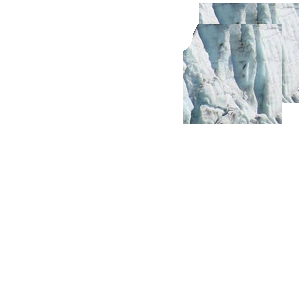
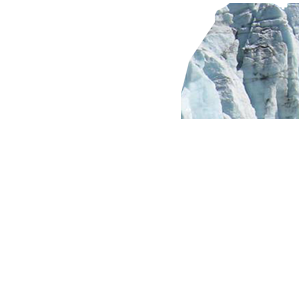
glacier calving animation is on the right track.

Changed region(s): [[0.6, 0.0, 1.0, 0.42]]

diff --git a/media/js/explode.js b/media/js/explode.js
@@ -9,7 +9,7 @@ var TILE_CENTER_WIDTH = 5;
 var TILE_CENTER_HEIGHT = 5;
 var SOURCERECT = {x:0, y:0, width:300, height:300};
 var PAINTRECT = {x:0, y:0, width:300, height:300};
-var SPEED = 100;
+var SPEED = 50;
 var ROWS = SOURCERECT.height / TILE_HEIGHT;
 var COLS = SOURCERECT.width / TILE_WIDTH;
 var tiles;
@@ -61,7 +61,6 @@ function processFrame(){
             var tile = tiles[row][col];
             
             if (tile.force > 0.0001){
-                //expand
                 tile.moveX *= tile.force;
                 tile.moveY *= tile.force;
                 tile.moveRotation *= tile.force;
@@ -69,12 +68,13 @@ function processFrame(){
                 tile.currentY += tile.moveY;
                 tile.rotation += tile.moveRotation;
                 tile.rotation %= 360;
-                tile.force *= .9;
+                tile.force *= 1.05;
                 if (tile.currentX <= 0 || tile.currentX >= PAINTRECT.width){
                     jQuery("canvas.explosion").fadeOut();
                     tile.moveX *= -1;
                 }
-                if(tile.currentY <= 0 || tile.currentY >= PAINTRECT.height){
+                if(tile.currentY <= 0) {
+                    jQuery("canvas.explosion").fadeOut();
                     tile.moveY *= -1;
                 }
             }
@@ -91,14 +91,14 @@ function processFrame(){
 function explode(x, y) {
     cycle = 0;
     initializeTiles();
-    jQuery("canvas.explosion").fadeIn();
+    jQuery("canvas.explosion").fadeIn(); 
     
     for (var row=0; row < ROWS; row++) {
         for (var col=0; col < COLS; col++) {
             var tile = tiles[row][col];
             
             var xdiff = -(tile.currentX-x);
-            var ydiff = -(tile.currentY-y);
+            var ydiff = y;
             var dist = Math.sqrt(xdiff*xdiff + ydiff*ydiff);
             
             var randRange = 220+(Math.random()*30);

diff --git a/media/js/glacier.js b/media/js/glacier.js
@@ -20,13 +20,13 @@ function setWaterLevel(imgIdx, duration) {
 }
 
 function swipeGlacier() {
-    explode(150, 150);
-
     var elt = jQuery("img.glacier.active")[0];
     var imgIdx = parseInt(jQuery(elt).data("idx"), 10);
     var newIdx = (imgIdx + 1) % (gImageCount + 1);
     
     if (imgIdx < gImageCount && newIdx > 0) {
+        explode(150, 150);
+
         var newElt = jQuery("img.glacier[data-idx='" + newIdx + "']")[0];
         
         var left = parseInt(jQuery(elt).css("left"), 10);
@@ -62,7 +62,7 @@ function swipeGlacier() {
         setWaterLevel(imgIdx, gEaseIn)
         
         var left = parseInt(jQuery("canvas.explosion").css("left"), 10);
-        jQuery("canvas.explosion").css({"left": left + (imgIdx * 2)});
+        jQuery("canvas.explosion").css({"left": left + (imgIdx * 5)});
     }
 }
 

diff --git a/media/css/main.css b/media/css/main.css
@@ -314,7 +314,7 @@ and (max-device-width : 5000px) {
     
     .glacierview canvas.explosion {
         top: 503px;
-        left: 2px;
+        left: -60px;
     }
     
     .waterview div.ui-slider-vertical {
